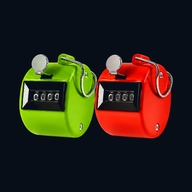
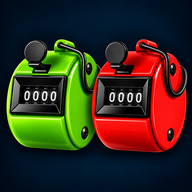
Add files via upload

diff --git a/index.html b/index.html
@@ -5,7 +5,7 @@
 <meta name="viewport" content="width=device-width,initial-scale=1,viewport-fit=cover">
 <meta name="apple-mobile-web-app-capable" content="yes">
 <meta name="apple-mobile-web-app-status-bar-style" content="black-translucent">
-<title>Clicker Master Pro</title>
+<title>Clicker Master</title>
 <style>
 :root{font-family:-apple-system,BlinkMacSystemFont,"Helvetica Neue",sans-serif;color-scheme:dark}
 *{box-sizing:border-box}
@@ -1224,20 +1224,38 @@ body::after{
 }
 </style>
 
-<link rel="manifest" href="./manifest.json?v=4">
-<link rel="apple-touch-icon" sizes="512x512" href="./apple-touch-icon.png?v=4">
-<link rel="icon" type="image/png" sizes="192x192" href="./icon-192.png?v=4">
-<link rel="icon" type="image/png" sizes="512x512" href="./icon-512.png?v=4">
-
-<style id="pro-title-fit-only">
+<style id="cm-pro-title-final">
 @media (orientation:portrait){
-  h1{font-size:28px!important;gap:5px!important;}
-  h1 .title-clickers{width:104px!important;height:66px!important;flex:0 0 104px!important;object-fit:contain!important;}
-}
-@media (orientation:landscape){
-  h1{font-size:7px!important;}
+  h1{
+    width:100%!important;
+    min-height:68px!important;
+    margin:8px 0 12px!important;
+    padding:0!important;
+    display:flex!important;
+    align-items:center!important;
+    justify-content:flex-start!important;
+    gap:6px!important;
+    overflow:visible!important;
+    white-space:nowrap!important;
+    font-size:25px!important;
+    line-height:1!important;
+  }
+  h1 .title-clickers{
+    display:block!important;
+    width:92px!important;
+    height:62px!important;
+    flex:0 0 92px!important;
+    object-fit:contain!important;
+    object-position:center!important;
+    overflow:visible!important;
+  }
 }
 </style>
+<link rel="manifest" href="./manifest.json?v=6">
+<link rel="apple-touch-icon" sizes="180x180" href="./apple-touch-icon.png?v=6">
+<link rel="icon" type="image/png" sizes="192x192" href="./icon-192.png?v=6">
+<link rel="icon" type="image/png" sizes="512x512" href="./icon-512.png?v=6">
+
 </head>
 <body>
 <button type="button" id="contestModeV17">予選・準決勝</button>
